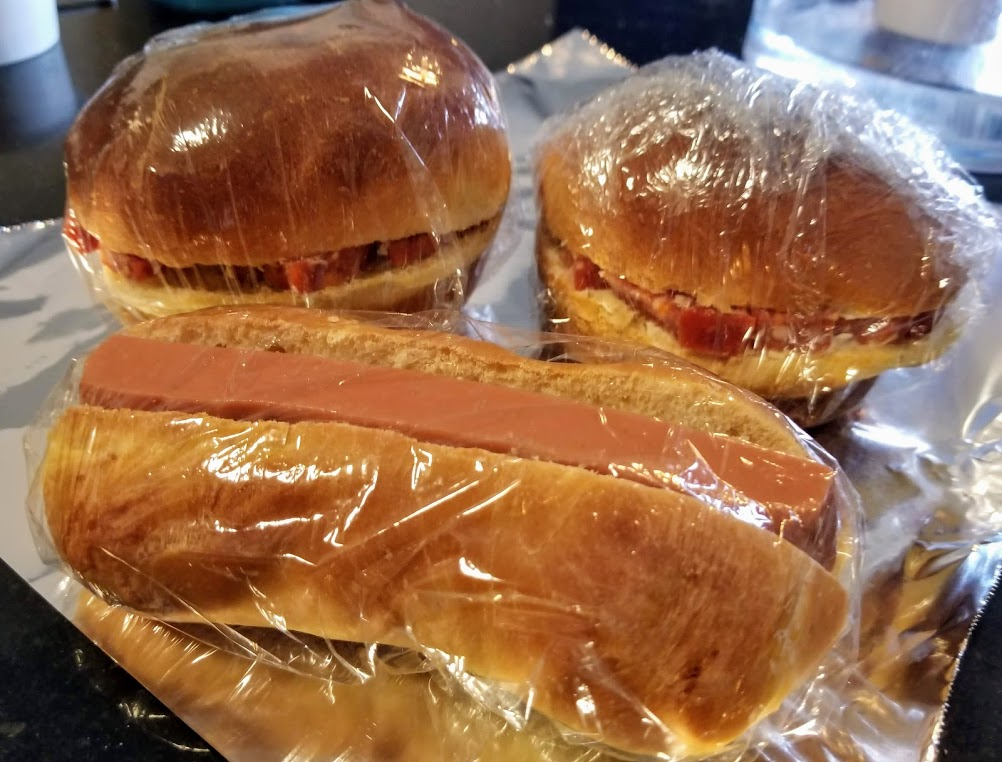
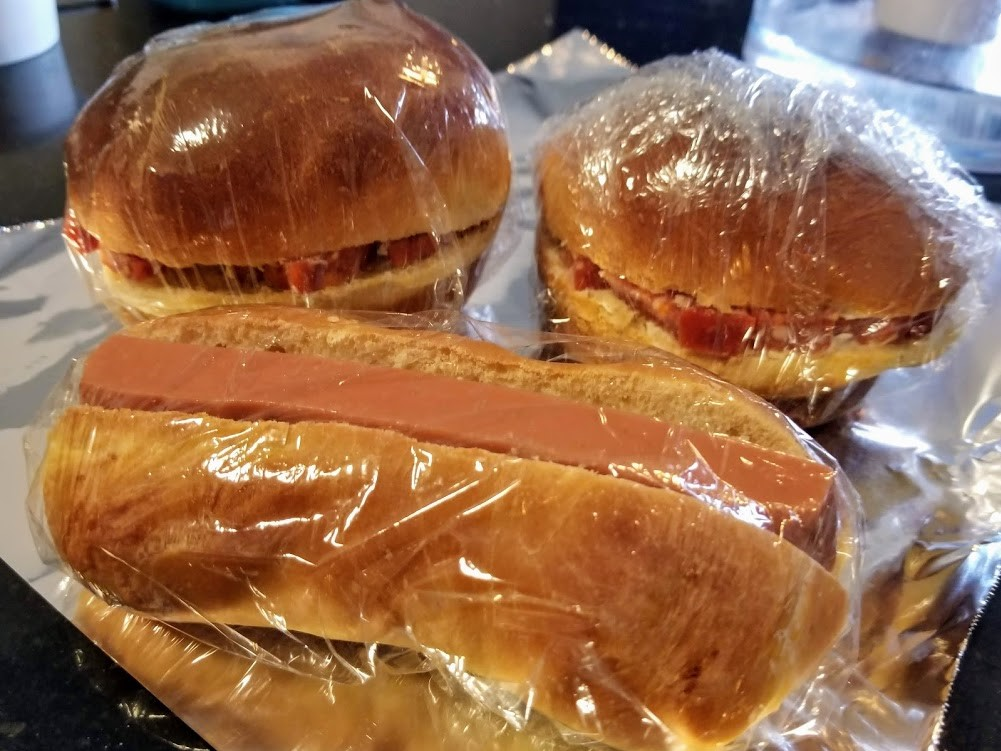
s

diff --git a/foodventures/_posts/2019-06-16-sushi-and-carbs.md b/foodventures/_posts/2019-06-16-sushi-and-carbs.md
@@ -134,9 +134,11 @@ A few bites into my meal, I bit into a fry that was just... off. The texture was
 
 Kevin reported the same thing had happened with his poutine. Since we've had poutine from Chickooos before and it's never been like this, hopefully today was just a bad day for the Chickooos folks, or their fries supplier somehow messed up. However, it does turn me off from eating there again in the future.
 
-![hot dogs and sandwiches meal prep](/food/foodventures/images/hot-dog-sandwiches-meal-prep.jpg){:width="40%"}{: .image-left}
+![salami sandwich on homemade bread](/food/foodventures/images/salami-sandwich.jpg){:width="48%"}{: .image-right}
 
-In other news, I freezer-prepped a few quick grab-and-go lunches for rainy days when there's suddenly nothing to eat and no will to cook. I used up my last Yves sausage for the hot dog and stuffed the sandwich rolls with salami, laughing cow cheese, and mozzarella. I'm not gonna lie, this is partially to prevent myself from eating any more of the salami, because I'm scared I'm becoming addicted to that shit. Yep, somehow I was able to resist *[smoked meat](/food/foodventures/what-i-ate-montreal-edition/#brunch-at-schwartzs-deli) from Montreal* but I can't resist a slab of grocery store salami.
+![hot dogs and sandwiches meal prep](/food/foodventures/images/hot-dog-sandwiches-meal-prep.jpg){:width="48%"}{: .image-right}
+
+In other news, I prepped and froze a few quick grab-and-go lunches for those rainy days when there's suddenly nothing to eat and no will to cook. I used up my last Yves sausage for the hot dog and stuffed the sandwich rolls with salami, laughing cow cheese, and mozzarella. I'm not gonna lie, this was partially to prevent myself from eating any more of the salami, because I'm scared I'm becoming addicted to that shit. Yep, somehow I was able to resist *[smoked meat](/food/foodventures/what-i-ate-montreal-edition/#brunch-at-schwartzs-deli) from Montreal* but I can't resist a slab of grocery store salami. *SO* I'm keeping the rest of them in the freezer to inhibit my fall to temptation.
 
 ## Sunday: Pizza
 
